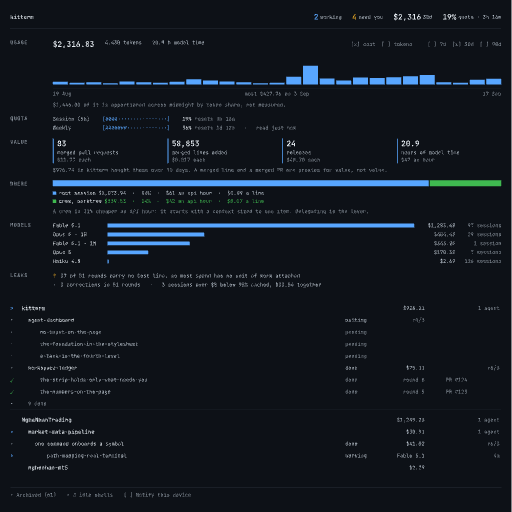
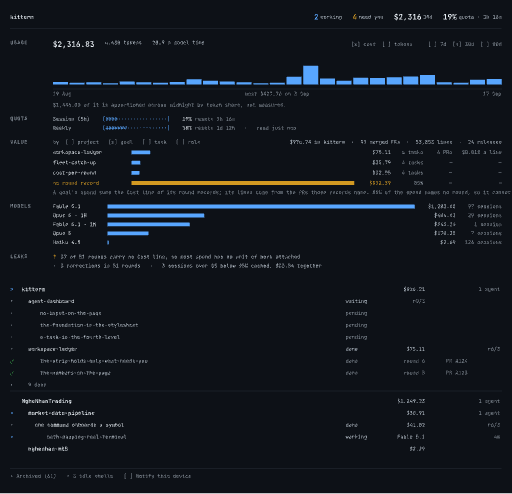
Group VALUE by project, goal, task and role
VALUE and WHERE were two panels asking one question at two fixed
groupings. They are now one panel with a selector, and the groupings are
the levels the page already has.

A project's spend comes from the daily rollup keyed on the transcript's
cwd; a goal's sums the `- Cost:` line of its round records; a task's is
that round's own line; a role's comes from the transcript's directory.
The units come from the pull requests those records name.

Two rules hold at every grouping. A row with no source prints a dash,
never a zero, because 37 of 51 records carry no Cost line. And the
unattributed remainder is a row, not a footnote: at the goal grouping
`no round record` is $832.89, 85% of kitterm's 30-day spend, and it
draws as the longest bar in amber.

A fifth frame, `Value groupings`, shows the panel at all four levels
with real rows. The canvas has zero overlaps.

Claude-Session: https://claude.ai/code/session_012ztzwyRLLwgnU2inMa4JWu

diff --git a/docs/goals/agent-dashboard/plan.md b/docs/goals/agent-dashboard/plan.md
@@ -61,7 +61,7 @@ proves it.
 
 | 6 | **Every agent says its model.** A session's model comes from the last `"model"` field in its `agentTranscript` and rides on the session payload. `UsageRollup` keeps the `modelUsage` map that `TranscriptBill` already reads, and `GET /api/usage/daily` answers a per-model split for the range. The line carries the model as a fact; the meters carry one `split` row per model with its spend and cache share. | Swift tests over the reader: a transcript whose last assistant line names a model, one with no assistant turn, an unreadable path, and the five naming cases from `design-foundation.md` including `[1m]` and a dated id. A rollup test that a day's per-model split sums to that day's total. A vitest over the split model including the empty case. A screenshot against the real tree showing the model on a live agent's line. |
 
-| 7 | **The page says what the spend bought.** A `yield` block shows the range's merged pull requests, merged lines, releases and hours of model time, each with its unit cost, and says in the same line that a line and a PR are proxies. A `split` row per role — crew in a worktree, session in a root — carries `$/API h` and `$/line`, read from the transcript's own directory. A `leaks` block names the spend with no round record, the corrections per round, and any session under 95% cached. The cache share leaves every heading and becomes that exception line. | Swift tests over the role reader (a worktree path, a root path, a path outside every project) and over the yield arithmetic with a zero-count range. A vitest over the yield and split models, including the empty range and the case where no session falls under 95%. A `sessions-css.test.ts` assertion that no heading carries a cache share. A screenshot against the real tree. |
+| 7 | **The page says what the spend bought.** A `yield` block shows the range's merged pull requests, merged lines, releases and hours of model time, each with its unit cost, and says in the same line that a line and a PR are proxies. The panel groups by project, goal, task or role, the same levels the tree has: a project's spend from the rollup, a goal's from the sum of its records' `Cost:` lines, a task's from its own round, a role's from the transcript's directory. A row with no source prints a dash, never a zero, and the unattributed remainder is a row in amber, not a footnote. A `leaks` block names the spend with no round record, the corrections per round, and any session under 95% cached. The cache share leaves every heading and becomes that exception line. | Swift tests over the role reader (a worktree path, a root path, a path outside every project) and over the yield arithmetic with a zero-count range. A vitest over the grouping model at each of the four levels, including a group with no spend, a group with no pull request, the unattributed row, and an empty range. A `sessions-css.test.ts` assertion that no heading carries a cache share. A screenshot against the real tree. |
 
 Capability 1 is independent and goes first, because it removes code the
 later capabilities would otherwise have to carry. Capability 2 goes

diff --git a/docs/goals/agent-dashboard/corpus/design-foundation.md b/docs/goals/agent-dashboard/corpus/design-foundation.md
@@ -12,6 +12,7 @@ number in them is read from the live daemon on 2026-09-17:
 | `Dashboard 390` | the same page on a phone, 44 px lines, facts dropped, the yield block kept |
 | `Foundation` | the space scale, the type scale, the state marks, the two densities, the model naming rule |
 | `Anatomy of a line` | the line's six cells and the order its facts drop in |
+| `Value groupings` | the `VALUE` panel at each of its four groupings, with real rows |
 
 Exports of the four frames sit beside this file as `01-*.png`. A written
 specimen of the same contract, with the before-image and the
@@ -223,15 +224,38 @@ as a dashboard rather than as five lists.
 |---|---|
 | `USAGE` | the range's spend and tokens, the day chart, the axis, the apportionment note |
 | `QUOTA` | one bar per window, its percentage and its reset |
-| `VALUE` | four tiles: a count, what it is, its unit cost |
-| `WHERE` | one stacked bar, then one legend line per role with its rate |
+| `VALUE` | a grouping selector, then one row per group: name, bar, spend, unit count, unit cost |
 | `MODELS` | one bar per model, scaled to spend, with the spend and the session count |
 | `LEAKS` | one line per leak, marked |
 
+### The VALUE panel groups by the same levels as the tree
+
+`VALUE` and `WHERE` were two panels asking one question at two fixed
+groupings. They are one panel with a selector, and the groupings are the
+levels the page already has:
+
+| Grouping | A row is | Its spend comes from | Its units come from |
+|---|---|---|---|
+| **project** | a registered project | the daily rollup, keyed on the transcript's cwd | that repository's merged pull requests and lines |
+| **goal** | a goal folder | the sum of the `- Cost:` line of its round records | the pull requests those records name |
+| **task** | a queue item, which is one round | that round's `- Cost:` line | the pull request that round's record names |
+| **role** | a crew in a worktree, or a session in a root | the transcript's own directory | that role's lines and API hours |
+
+Two rules the panel holds at every grouping.
+
+**A row with no source prints a dash, never a zero.** 37 of 51 round
+records carry no `- Cost:` line, so most goals and tasks have no spend,
+and most rounds name no pull request.
+
+**The unattributed remainder is a row, not a footnote.** At the `goal`
+grouping, `no round record` is $832.89, which is 85% of kitterm's 30-day
+spend, and it draws as the longest bar in amber. Hiding it would make
+the other three rows look like the whole picture.
+
 Below 768 px the gutter goes and each panel's label becomes a small
-heading over its content. `WHERE` and `LEAKS` drop entirely: they are
-the least urgent measures, and the same drop rule governs them as
-governs a line's facts.
+heading over its content. `VALUE` keeps its selector and its rows.
+`LEAKS` drops: it is the least urgent measure, and the same rule governs
+it as governs a line's facts.
 
 `corpus/valuemaxxing.md` holds the measurements and the reason each row
 is there.
